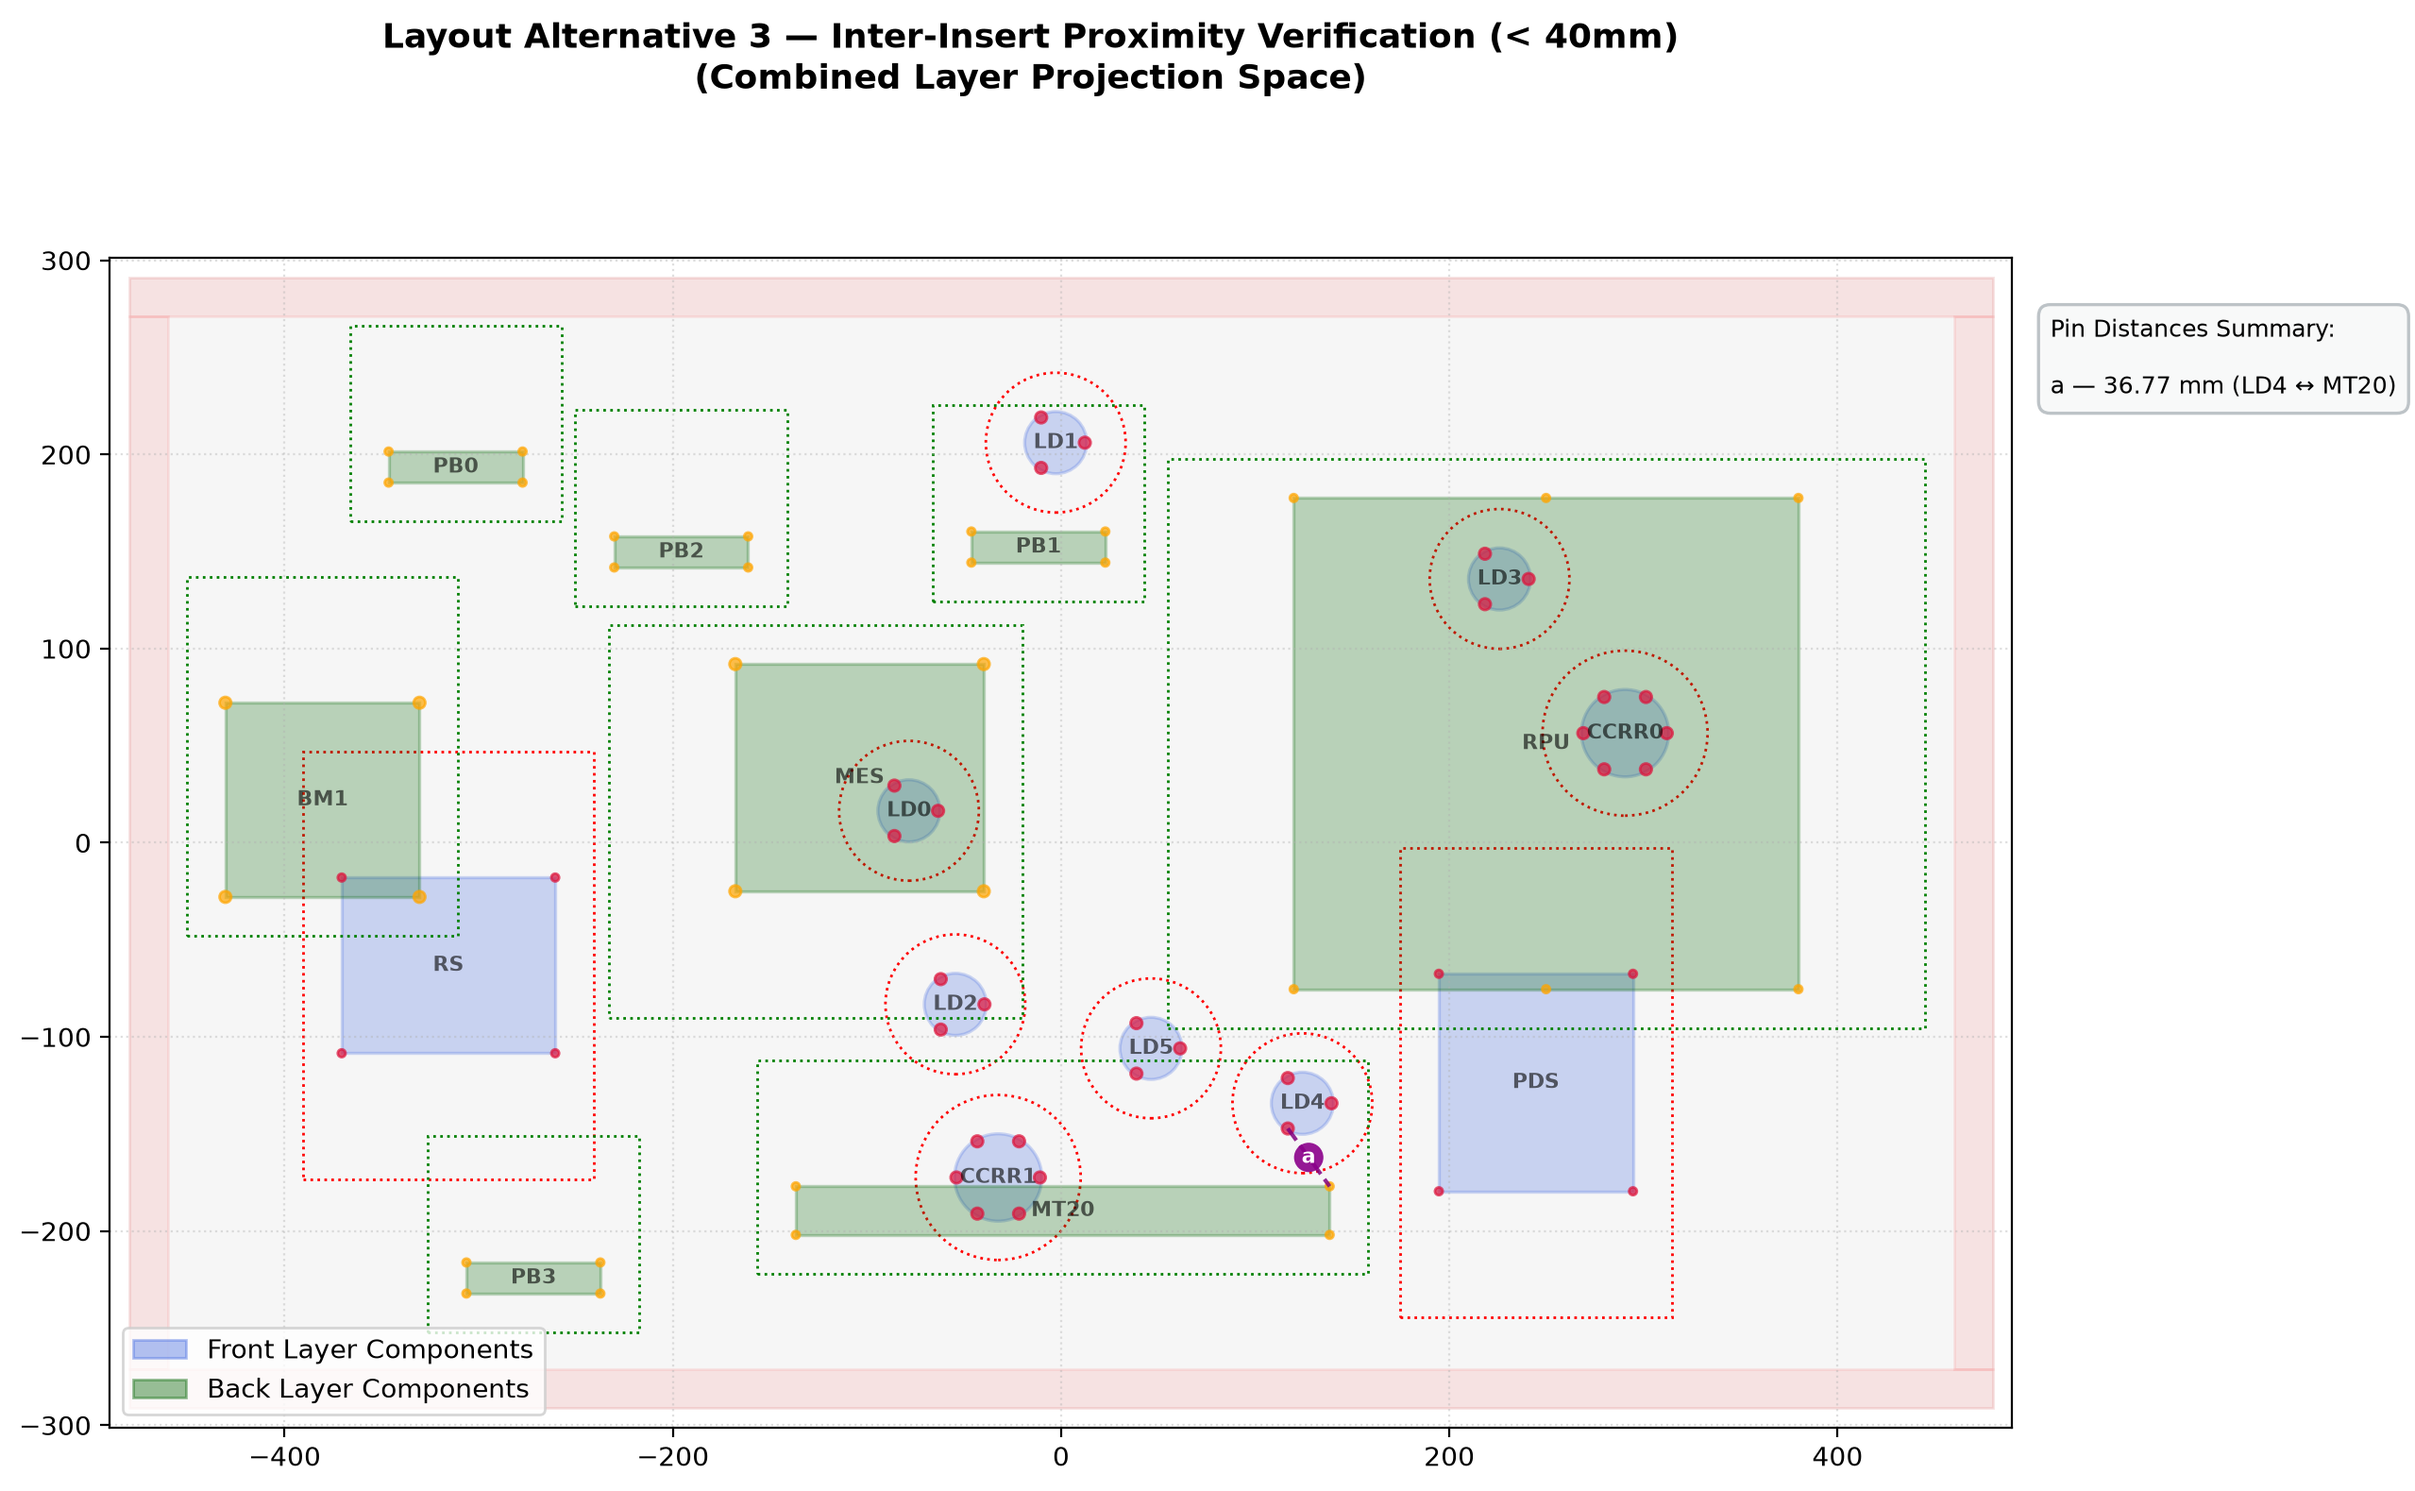
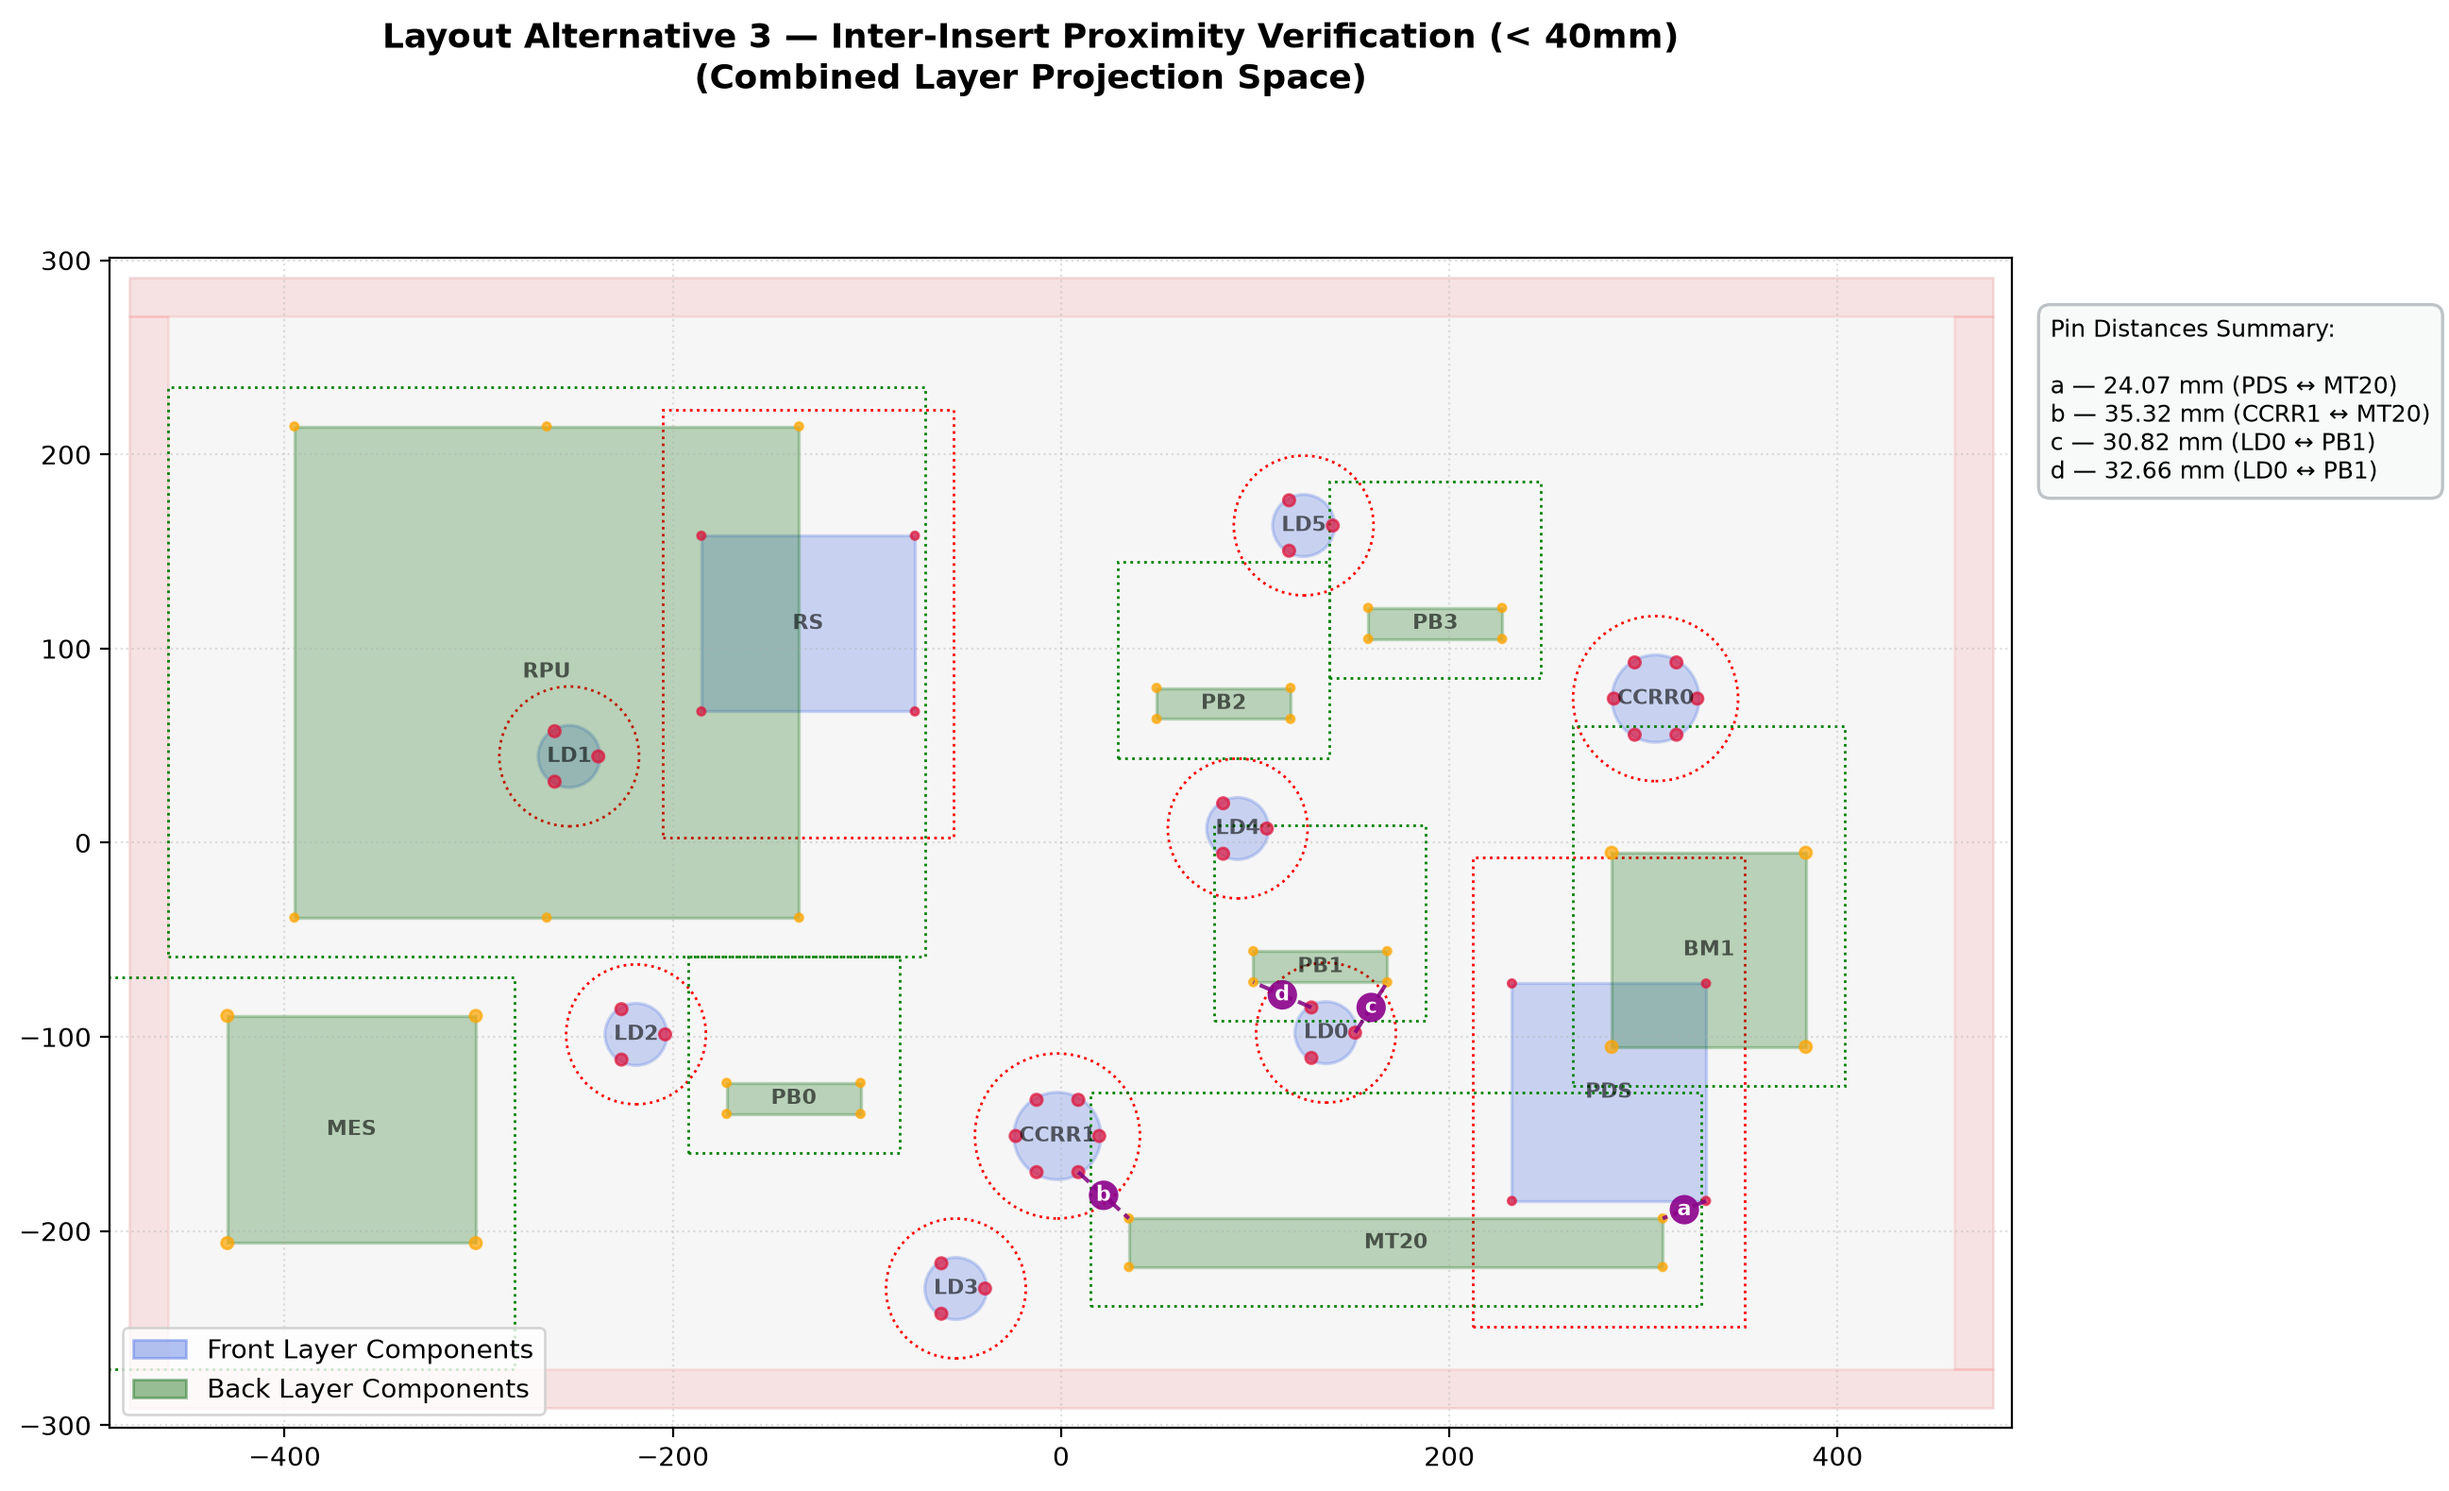
pb inserts needs to be done

diff --git a/office/new.py b/office/new.py
@@ -13,7 +13,7 @@ from numba import njit, prange
 warnings.filterwarnings("ignore")
 
 # ================= STRUCTURAL CONFIGURATION ==================
-CG_TOLERANCE = 20.0  # mm: Target combined center of gravity
+CG_TOLERANCE = 5.0  # mm: Target combined center of gravity
 OUTPUT_DIR = "optimized_layouts"
 os.makedirs(OUTPUT_DIR, exist_ok=True)
 
